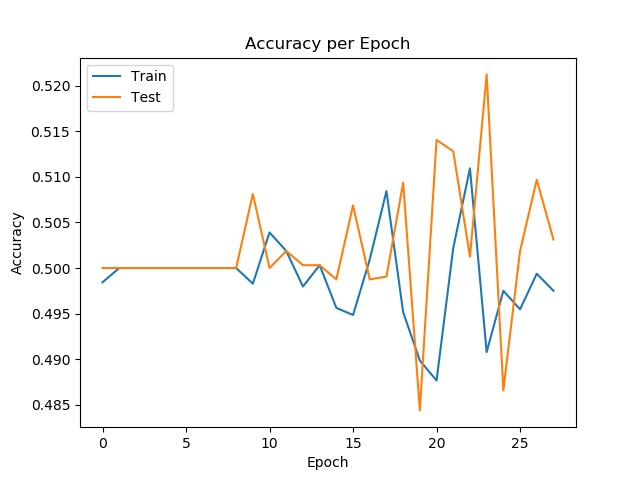
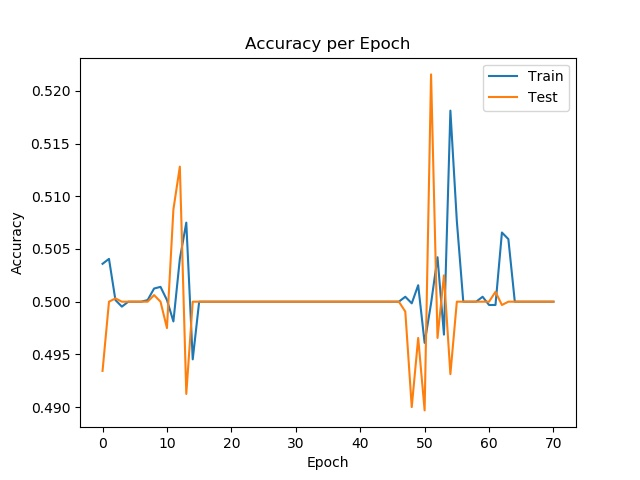
transformer w/out dense

diff --git a/model_cifar_transformer.py b/model_cifar_transformer.py
@@ -27,9 +27,9 @@ class Model(tf.keras.Model):
         self.W_q = tf.Variable(tf.random.truncated_normal([self.embedding_size, self.kqv_size], mean=0.0, stddev=.1))
         self.W_v = tf.Variable(tf.random.truncated_normal([self.embedding_size, self.kqv_size], mean=0.0, stddev=.1))
 
-        self.W_q1 = tf.constant(tf.identity(self.W_q))
+        # self.W_q1 = tf.constant(tf.identity(self.W_q))
 
-        self.dense = tf.keras.layers.Dense(self.embedding_size)
+        # self.dense = tf.keras.layers.Dense(self.embedding_size)
 
         
         self.example_batch_size = 5
@@ -97,10 +97,11 @@ class Model(tf.keras.Model):
             Q = tf.matmul(examples[i], self.W_q)
             V = tf.matmul(examples[i], self.W_v)
 
-            Z.append(tf.nn.softmax(tf.matmul(tf.matmul(Q,tf.transpose(K))/dk, V)))
+            Z.append(tf.matmul(tf.nn.softmax(tf.matmul(Q,tf.transpose(K))/dk), V))
 
-        merged_examples = tf.reduce_mean(self.dense(tf.convert_to_tensor(Z)),axis=1)
-        # merged_examples = self.dense(tf.convert_to_tensor(Z))[:,0,:]
+        # merged_examples = tf.reduce_mean(tf.convert_to_tensor(Z),axis=1)
+        num = np.random.randint(5)
+        merged_examples = tf.convert_to_tensor(Z)[:,num,:]
         # print(merged_examples.shape)
 
         #merged_examples = tf.reshape(examples, (self.example_batch_size, -1))
@@ -307,7 +308,7 @@ def main():
     accuracies = []
     test_accuracies = []
     test_losses = []
-    for epoch in range(10000):
+    for epoch in range(3000):
         print(epoch)
         visualize_loss(losses, test_losses)
         visualize_acc(accuracies, test_accuracies)
